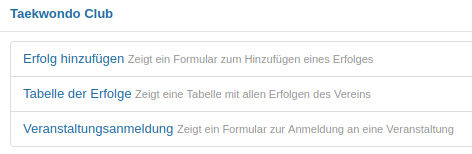
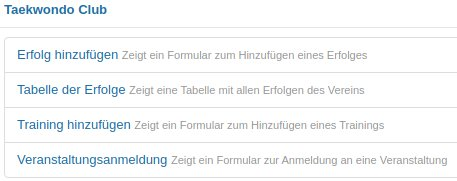
updated docs for 3.3.0

diff --git a/docs/conf.py b/docs/conf.py
@@ -61,7 +61,7 @@ master_doc = 'index'
 
 # General information about the project.
 project = u'TKDClub - Joomla! Extension'
-copyright = u'2017, Markus Moser'
+copyright = u'2019, Markus Moser'
 author = u'Markus Moser'
 
 # The version info for the project you're documenting, acts as replacement for
@@ -69,9 +69,9 @@ author = u'Markus Moser'
 # built documents.
 #
 # The short X.Y version.
-version = u'3.2.0'
+version = u'3.3.0'
 # The full version, including alpha/beta/rc tags.
-release = u'3.2.0'
+release = u'3.3.0'
 
 # The language for content autogenerated by Sphinx. Refer to documentation
 # for a list of supported languages.

diff --git a/docs/mitglieder.rst b/docs/mitglieder.rst
@@ -1,6 +1,22 @@
 Mitglieder
 ==========
 
+Eine der wichtigsten Funktionen der TKDClub- Komponente ist es,
+Vereinsmitglieder zu verwalten. Mittels des mitgelieferten Plugins ist es
+möglich, das Joomla! Registrierungsformular so zu erweitern, dass sich
+Personen beim Verein als Mitglied und gleichzeitig als Nutzer der Website
+registrieren können.
+
+Das Mitglied kann seine gespeicherten Daten einsehen und ausgewählte Daten
+(z.B. Adresse) jederzeit selbst ändern.
+
+Dem Administrator ist möglich, bereits auf der Website registrierte Nutzer
+mit einem Mitglied aus der Mitgliederliste zu verknüpfen.
+
+---------------------
+Verwaltung im Backend
+---------------------
+
 .. image:: img/members_list.jpg
    :align: right
 
@@ -72,8 +88,23 @@ hier öffnet sich das Formular zum Bearbeiten des Teilnehmers. Gelöscht können
 mehrere Mitglieder zur gleichen Zeit werden, editieren kann man immer nur einen
 Datensatz zur gleichen Zeit.
 
+Mitglied mit Website-Benutzer verknüpfen
+----------------------------------------
+
+Ein Mitglied kann mit einem bestehenden Website-Benutzer verknüpft werden.
+Dazu einfach in der Bearbeitungssicht des Mitglieds oben rechts den
+entsprechenden Benutzer nach Klick auf das User-Symbol auswählen und danach
+speichern:
+
+.. image:: img/members_link.jpg
+    :align: center
+
+Wenn das entsprechende Plugin aktiviert ist, wird bei der Registrierung eines
+neuen Benutzers auch ein neues Mitglied in der Liste angelegt. Benutzer und
+Mitlied sind dann automatisch verknüpft.
+
 Dateien anhängen
-----------------------------
+----------------
 
 Nach dem Speichern des Mitglieds ist es im Tab "Anhänge" möglich .pdf, .jpg und
 .png Dateien anzuhängen. Die maximale Dateigröße ist auf 500 Kb begrenzt. Hier
@@ -111,3 +142,19 @@ Export als .cvs Datei
 
 In der Listansicht können alle per Tick-Box markierten Mitglieder in eine
 csv-Datei exportiert werden.
+
+----------------------
+Verwaltung im Frontend
+----------------------
+
+Zur Zeit beschränkt sich die Verwaltung im Frontend die Möglichkeit, als
+auf der Website registrierter Nutzer mit bestehender Verknüpfung zum
+entsprechenden Mitglied aus der Mitgliederliste, die gespeicherten Daten im
+Frontend einzusehen und ausgewählte Daten selbst ändern zu können.
+
+Damit bei der Benutzerregistrierung die entprechenden Daten zur
+Mitgliedsanmeldung angezeigt werden, muss das Plugin "tkdclubmember" durch den
+Administrator aktiviert sein:
+
+.. image:: img/members_plugin.jpg
+    :align: center

diff --git a/docs/trainings.rst b/docs/trainings.rst
@@ -1,6 +1,13 @@
 Trainings
 =========
 
+Die TKD-Club Komponente erlaubt es, Trainings die im Verein gehalten werden,
+aufzueichnen. Dafür gibt Verwaltungsmöglichkeiten im Backend und im Frontend.
+
+---------------------
+Verwaltung im Backend
+---------------------
+
 .. image:: img/trainings_list.jpg
    :align: right
 
@@ -175,3 +182,26 @@ Export als .cvs Datei
 
 In der Listansicht können alle per Tick-Box markierten Trainings in eine
 csv-Datei exportiert werden.
+
+----------------------
+Verwaltung im Frontend
+----------------------
+
+.. image:: img/menu_types.jpg
+
+Für das Frontend steht ein Menütyp für Trainings zur Verfügung:
+
+- Training hinzufügen
+
+Training hinzuzufügen
+---------------------
+
+Legen Sie einen Menüpunkt mit diesem Menütyp an und veröffentlichen Sie diesen.
+
+Im Frontend erscheint unter diesem Link ein Formular zum Hinzufügen eines neuen
+Trainings. Nur ein im Frontend eingeloggter Benutzer mit den erforderlichen
+Rechten kann ein Training hinzufügen.
+
+Wird ein neues Training über das Frontend hinzugefügt, so erhalten alle
+Benutzer der in der Konfiguration eingestellten Benutzergruppe per E-Mail eine
+Information über den neuen Eintrag.

diff --git a/docs/erfolge.rst b/docs/erfolge.rst
@@ -29,7 +29,7 @@ Turniertypen
 Benachrichtigung
     Hier kann eingestellt werden, ob eine E-Mail Benachrichtigung beim
     Hinzufügen eines neuen Erfolgs über das Frontend an eine Benutzergruppe
-    gesendet werden soll. 
+    gesendet werden soll.
 
 E-Mail an Gruppe
     Dieses Feld ist nur sichtbar wenn das "Benachrichtigung" Feld auf "Ja"
@@ -133,7 +133,7 @@ Erfolg hinzuzufügen
 Legen Sie einen Menüpunkt mit diesem Menütyp an und veröffentlichen Sie diesen.
 
 Im Frontend erscheint unter diesem Link ein Formular zum Hinzufügen eines neuen
-Erfolgs. Nur ein im Frontend eingeloggter Benutzer mit den erfordelichen
+Erfolgs. Nur ein im Frontend eingeloggter Benutzer mit den erforderlichen
 Rechten kann einen Erfolg hinzufügen.
 
 Wird ein neuer Erfolg über das Frontend hinzugefügt, so erhalten alle Benutzer

diff --git a/docs/changelog.rst b/docs/changelog.rst
@@ -1,6 +1,26 @@
 Changelog
 =========
 
+Version 3.3.0 (2019-11-03)
+--------------------------
+
+Feature Release
+
+- Hinzufügen eines Trainings über das Frontend möglich
+- Neues Plugin zur Erweiterung des Registrierungsformulars im Frontend zur
+  Mitgliederanmeldung
+- Das Verknüpfen eines Joomal!-Users mit einem Mitglied ist nun möglich. Somit
+  kann ein Mitglied seine gespeicherten Daten ansehen und einige auch selbst
+  ändern (z.B. Adresse)
+
+Version 3.2.1 (2019-03-06)
+--------------------------
+
+Minor improvement Release
+
+- Datumseingaben in allen Formularen nun formatiert nach
+  Spracheinstellungen (z.B. dd.mm.YYYY für Deutsch)
+
 Version 3.2.0 (2019-03-03)
 --------------------------
 
